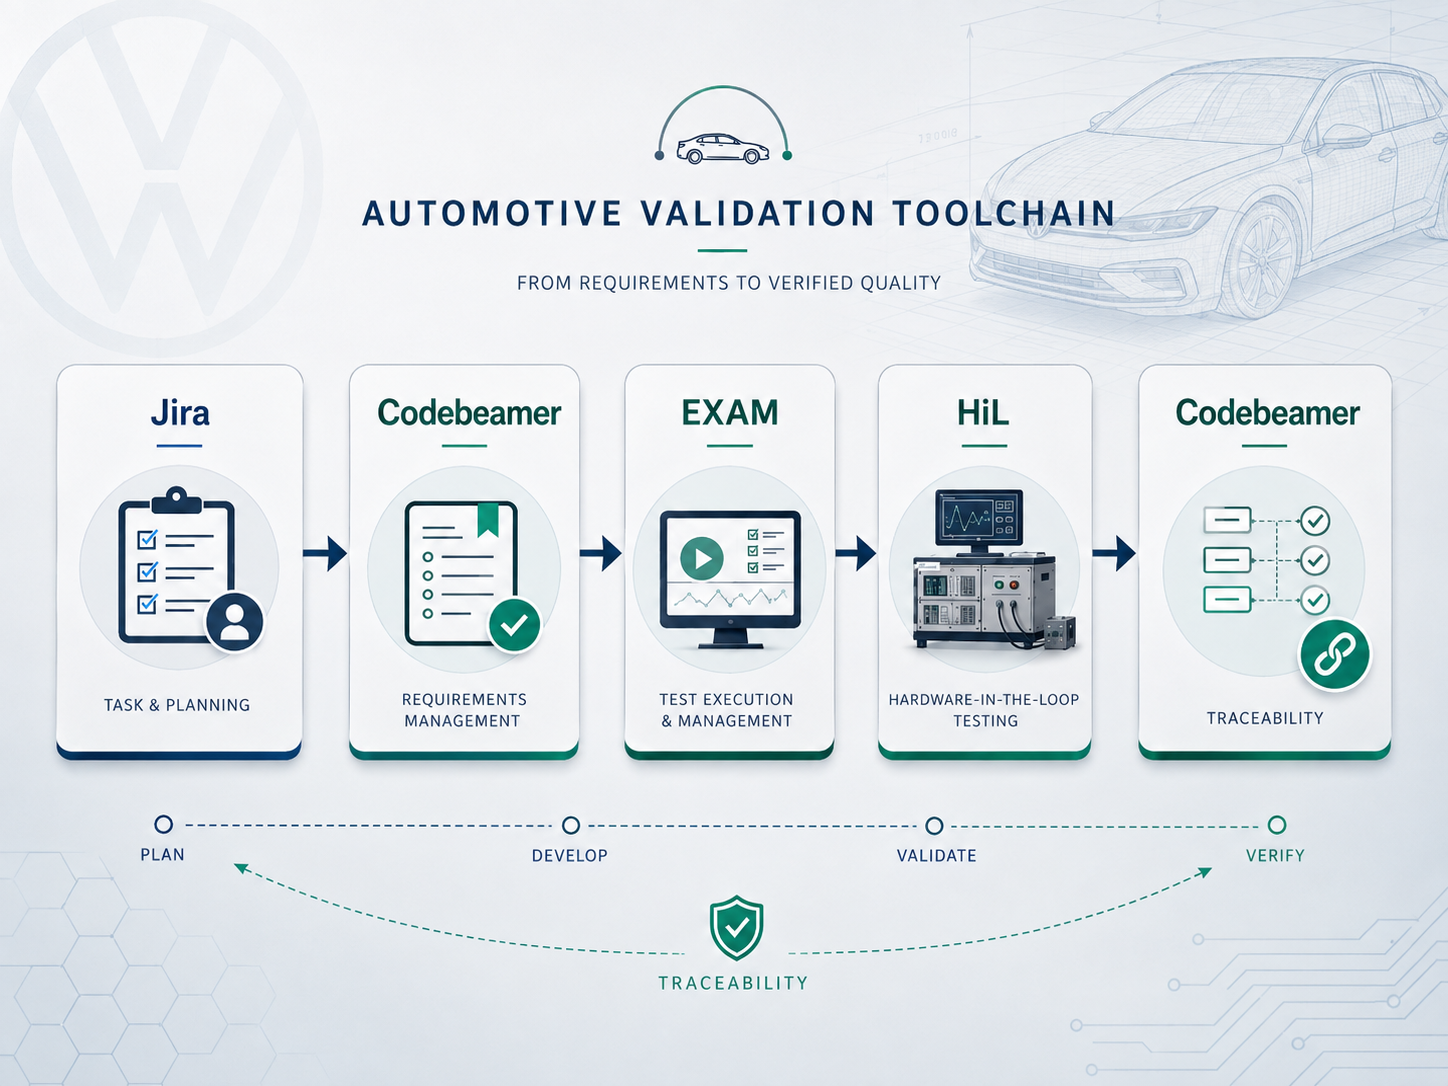
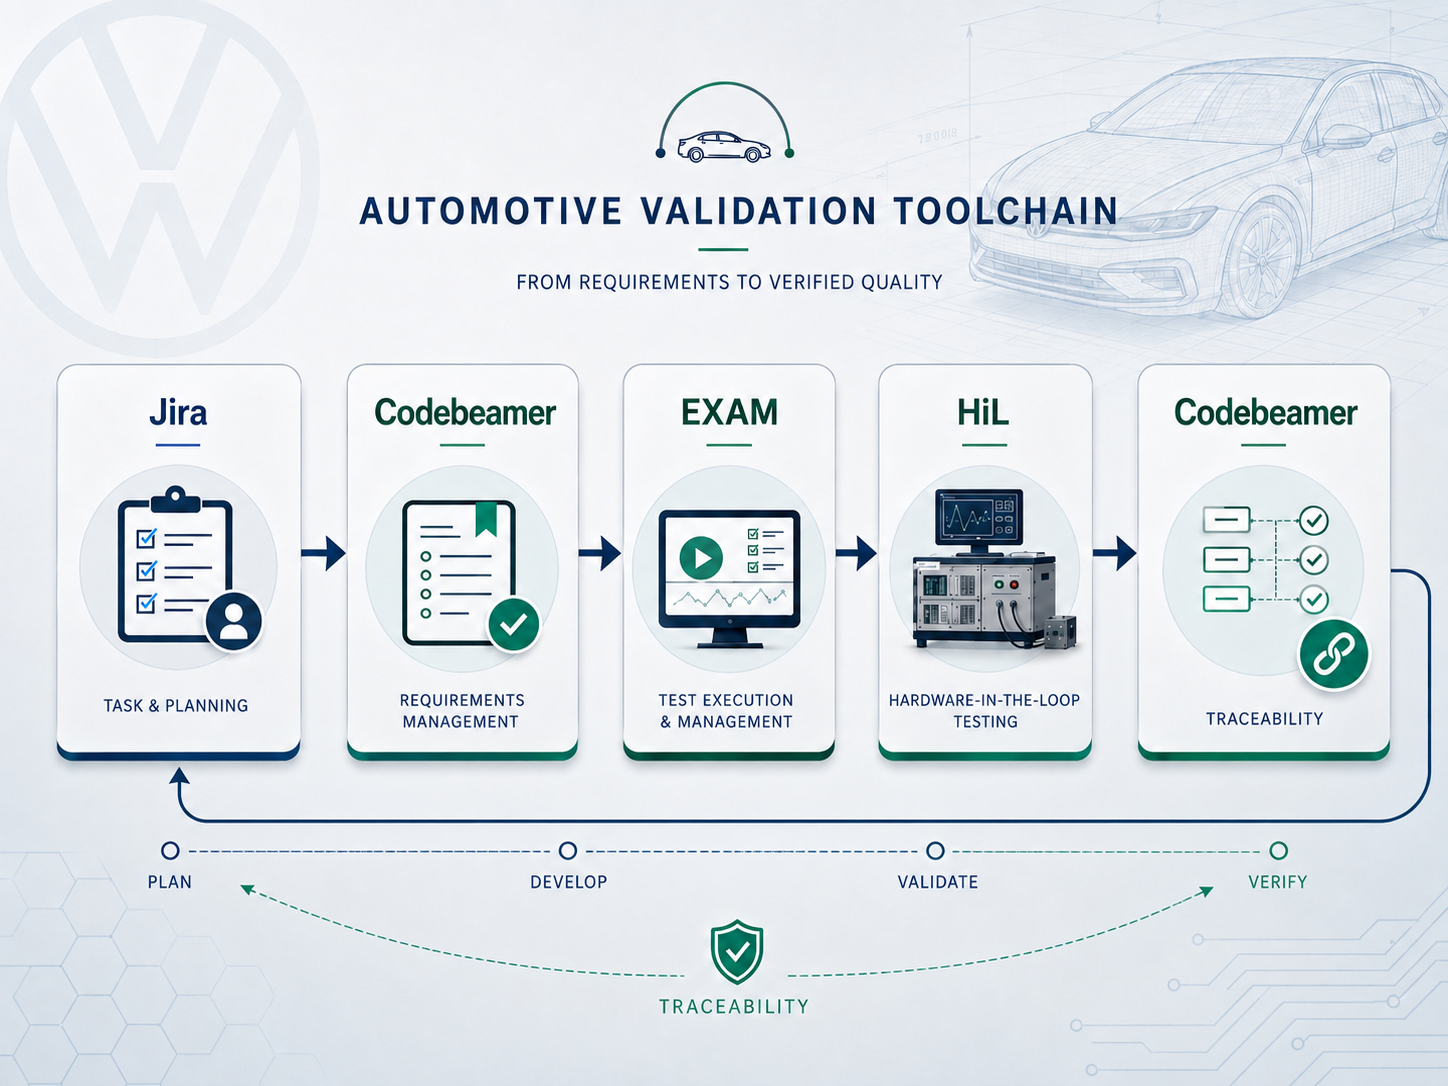
update

diff --git a/index.html b/index.html
@@ -1934,7 +1934,17 @@
 
             <!-- USV -->
 
-            <article class="project">
+            <article class="project project-visual">
+                
+                <img
+                    class="project-image"
+                    src="./assets/projects/usv.png"
+                    width="1448"
+                    height="1086"
+                    alt="Unmanned surface vehicle project with custom electronics and PCB development"
+                    loading="lazy"
+                    decoding="async"
+                >
 
                 <div class="project-content">
 
